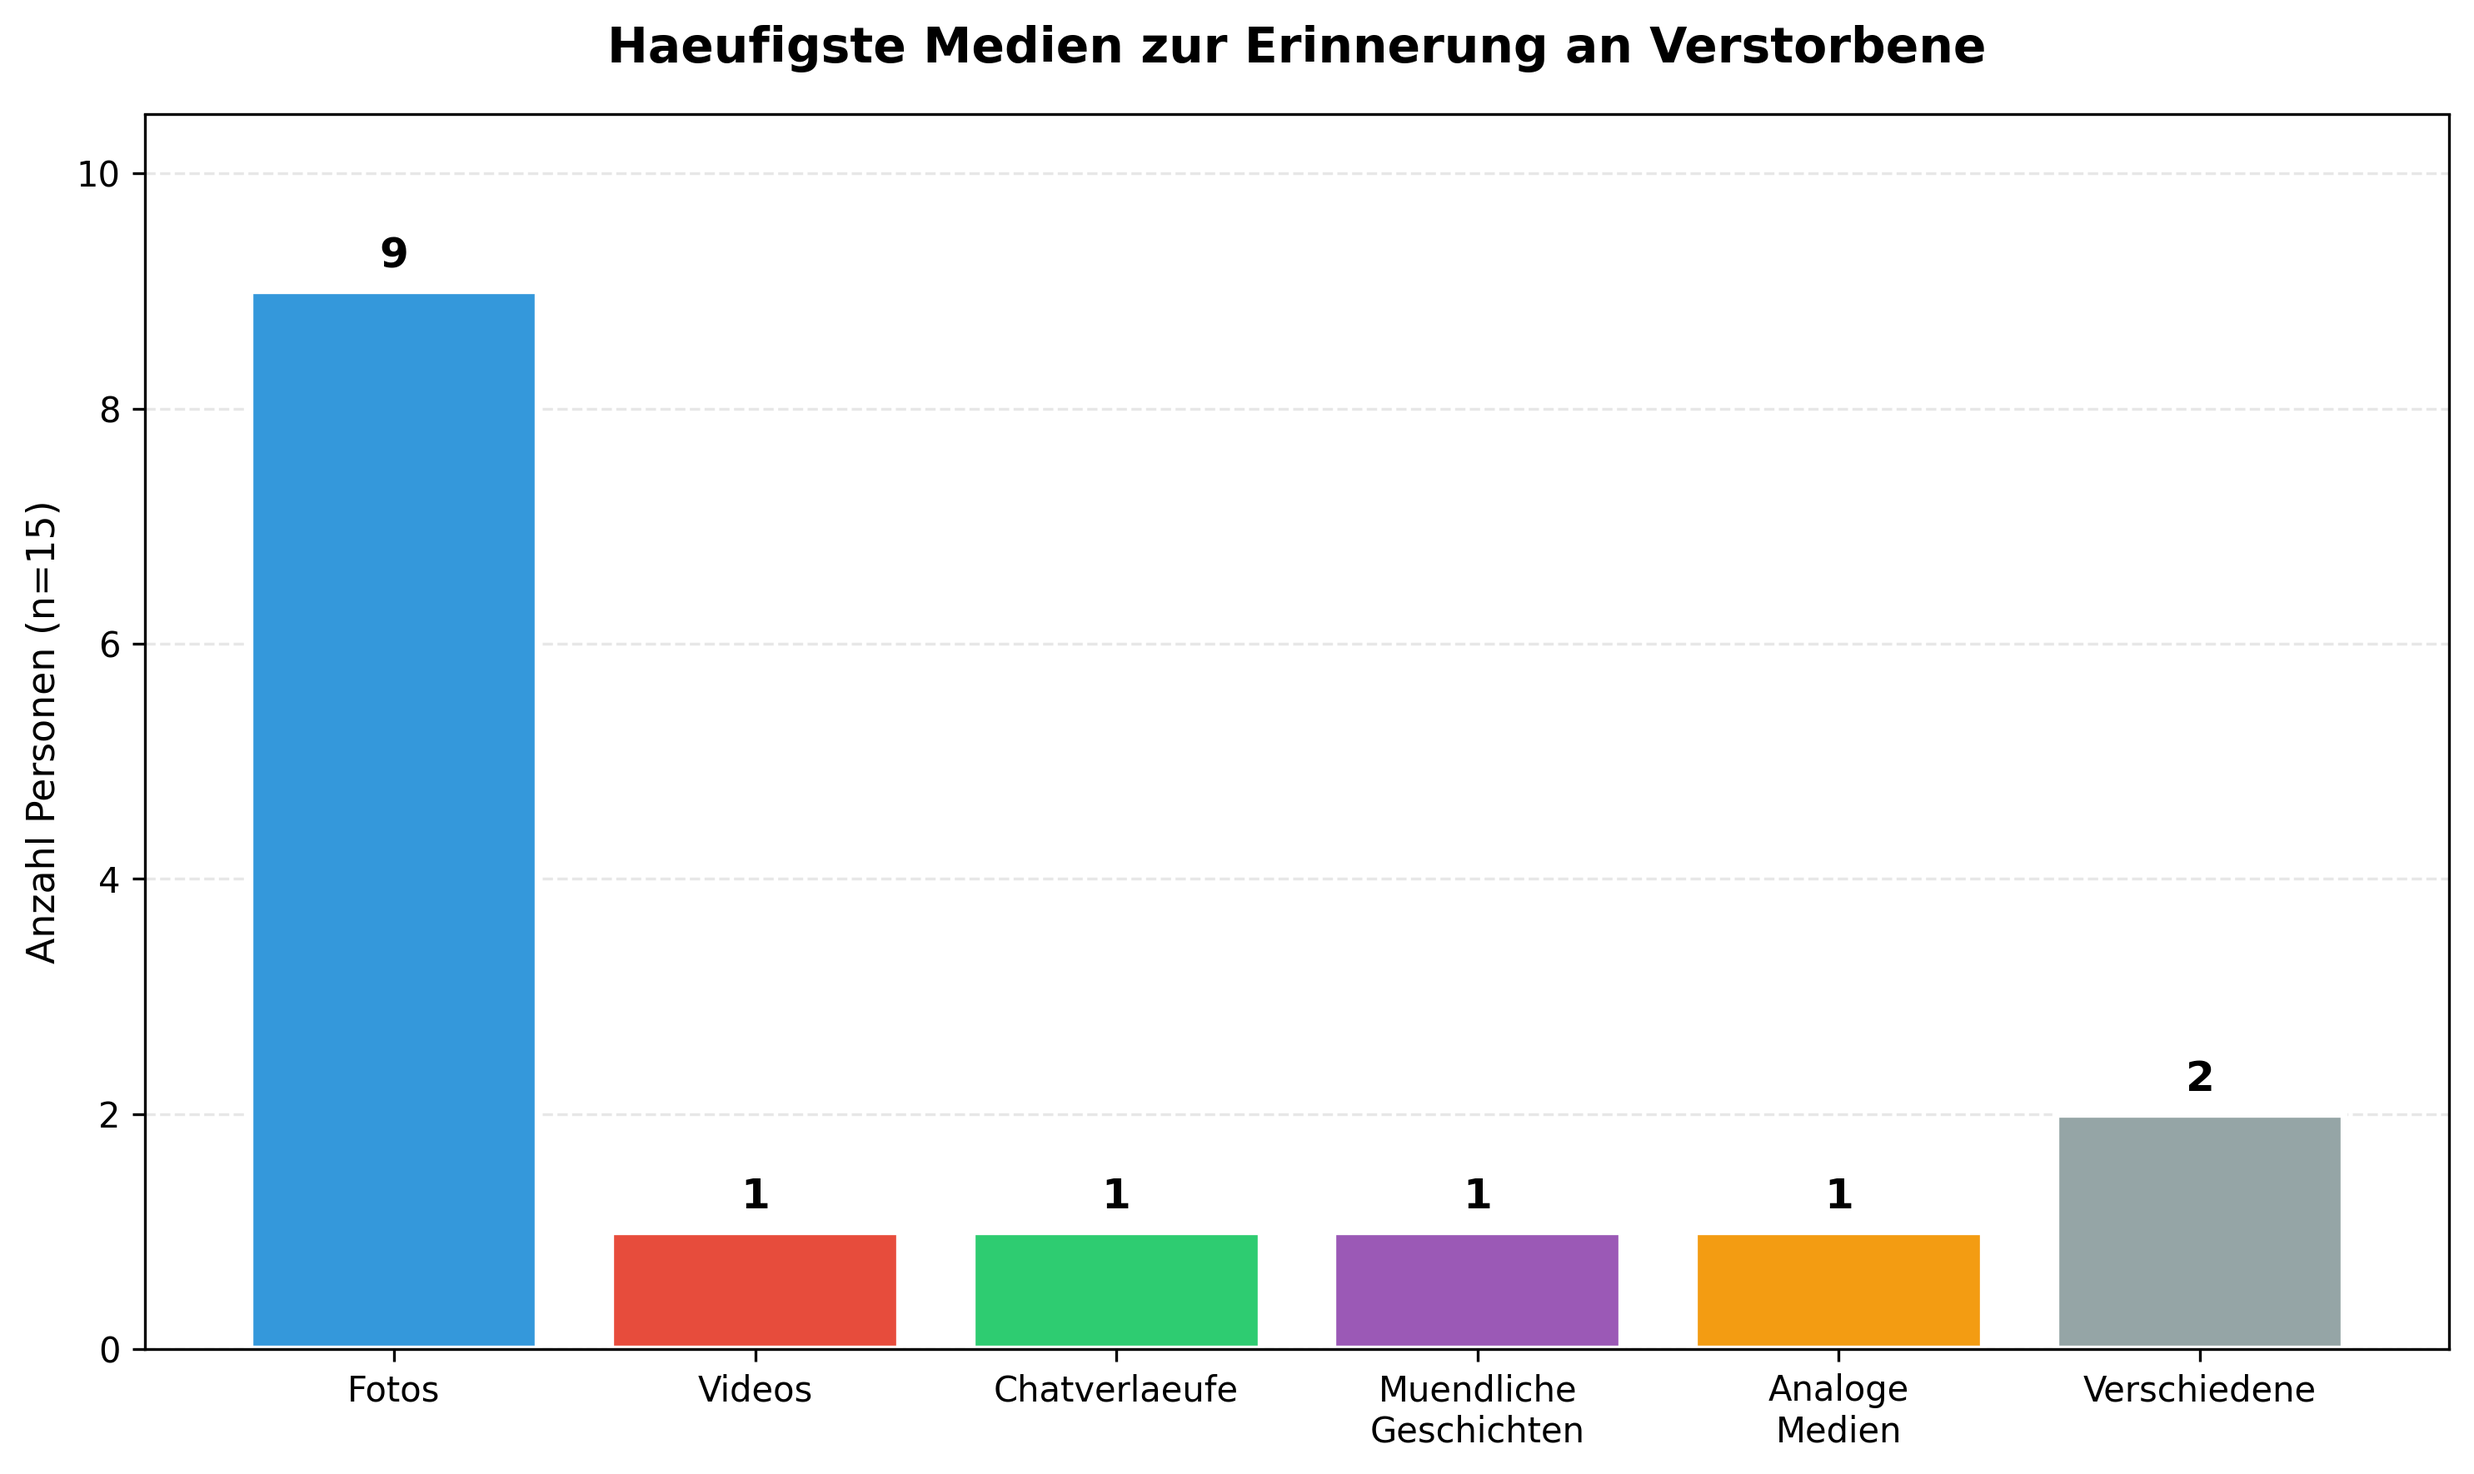
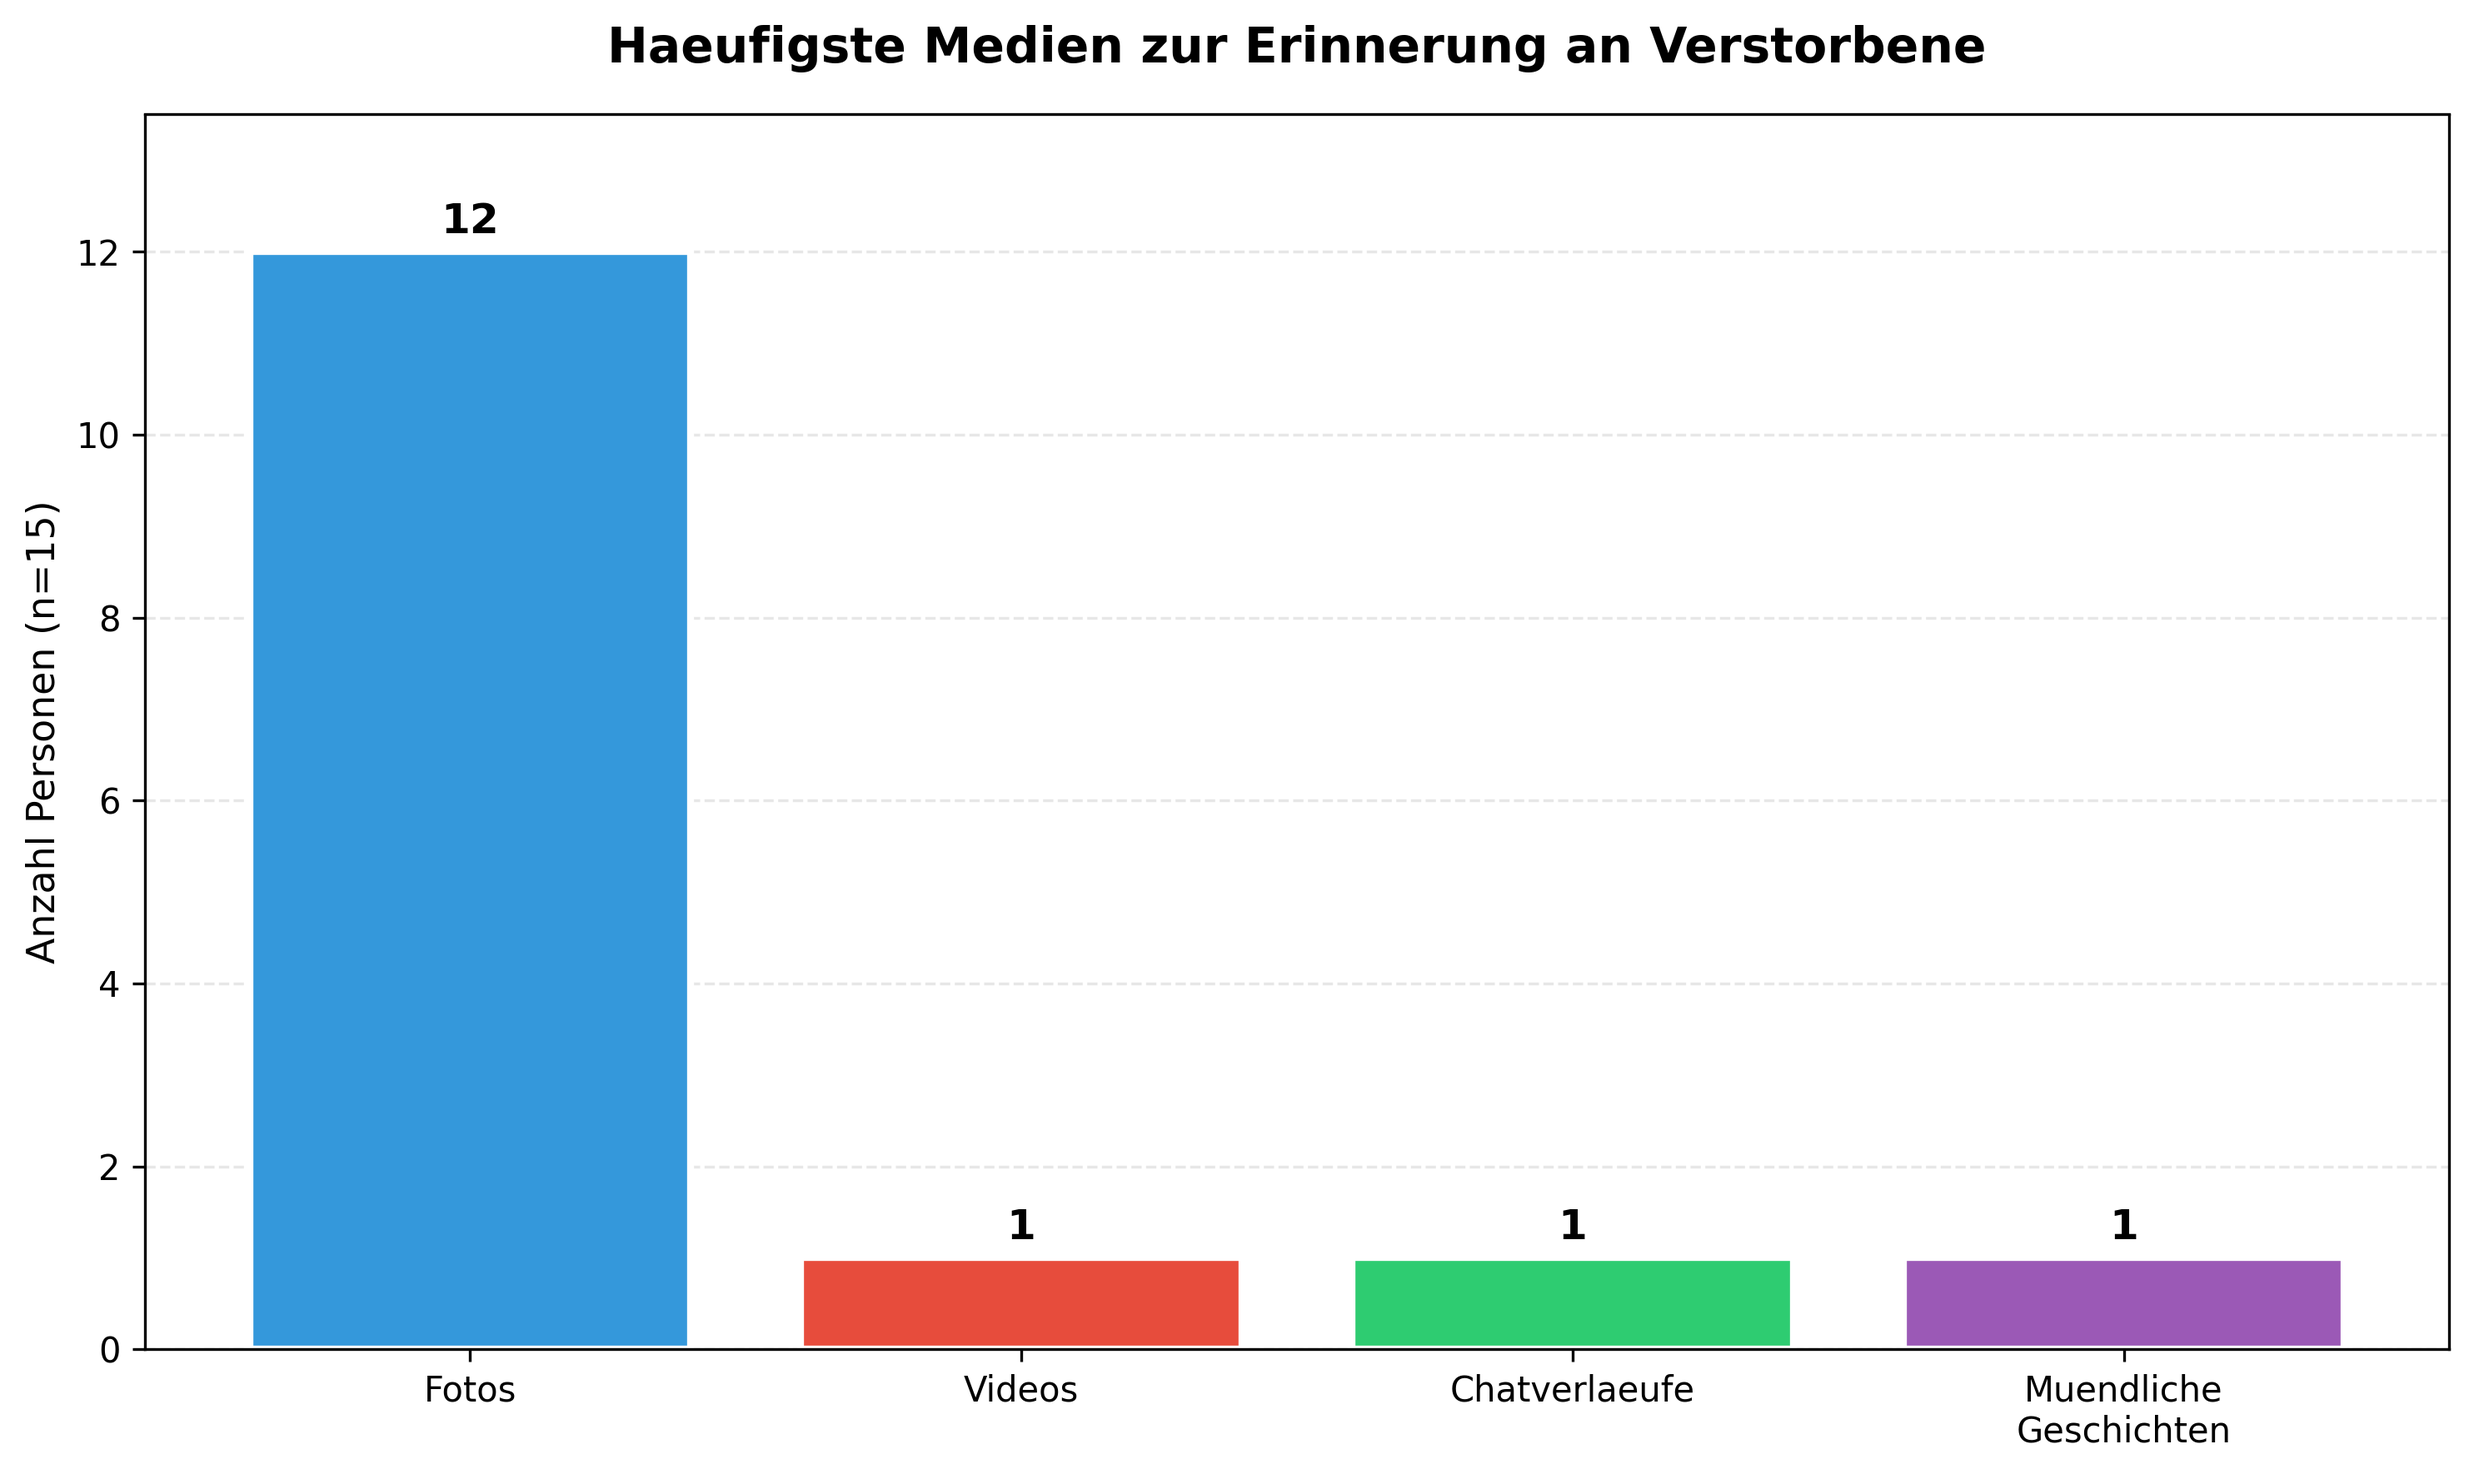
Korrekturen basierend auf Datenverifizierung
- Chart 01: "Verschiedene" Kategorie entfernt, Fotos korrigiert auf 12/15
- Themen-Matrix: I12 (Abbas) bei "plötzlichem Tod Abschied" hinzugefügt
- I12_Abbas/analyse.md: Punkt "Abschied bei plötzlichem Tod" ergänzt
- Beide Korrekturen durch MAXQDA-Segmente verifiziert

🤖 Generated with [Claude Code](https://claude.com/claude-code)

diff --git a/code/create_latex_style_table.py b/code/create_latex_style_table.py
@@ -34,7 +34,7 @@ themes_data = [
             ('KI kann emotionale Nähe nicht ersetzen', 'I01, I05, I06, I07, I08, I11, I13'),
             ('Echte Aufnahmen werden künstlichen vorgezogen', 'I01, I05, I06, I11, I13, I14'),
             ('Stimme/Bewegung erzeugt stärkere Präsenz als statische Bilder', 'I01, I03, I04, I05, I08, I09, I10, I11, I15'),
-            ('KI könnte bei plötzlichem Tod Abschied ermöglichen', 'I04'),
+            ('KI könnte bei plötzlichem Tod Abschied ermöglichen', 'I04, I12'),
         ]
     },
     {
@@ -191,7 +191,7 @@ markdown_content = """# Themen-Matrix: Einflussfaktoren auf die Einstellung zu K
 | *Emotionale Bindung und Präsenzgefühl (FF B)* | KI kann emotionale Nähe nicht ersetzen | I01, I05, I06, I07, I08, I11, I13 |
 | | Echte Aufnahmen werden künstlichen vorgezogen | I01, I05, I06, I11, I13, I14 |
 | | Stimme/Bewegung erzeugt stärkere Präsenz als statische Bilder | I01, I03, I04, I05, I08, I09, I10, I11, I15 |
-| | KI könnte bei plötzlichem Tod Abschied ermöglichen | I04 |
+| | KI könnte bei plötzlichem Tod Abschied ermöglichen | I04, I12 |
 | *Trauerprozess und Bewältigung (FF B)* | KI könnte Loslassen/Abschliessen verhindern | I01, I02, I03, I05, I06, I07, I08, I09, I12, I13, I14, I15 |
 | | Zeitlicher Abstand vor KI-Nutzung wichtig | I05, I06, I07 |
 | | Zeitliche Begrenzung der Nutzung sinnvoll | I03, I15 |

diff --git a/code/create_final_charts.py b/code/create_final_charts.py
@@ -25,13 +25,16 @@ print("="*60)
 fig, ax = plt.subplots(figsize=(10, 6))
 
 medien_data = {
-    'Fotos': 9,
+    'Fotos': 12,
     'Videos': 1,
     'Chatverlaeufe': 1,
-    'Muendliche\nGeschichten': 1,
-    'Analoge\nMedien': 1,
-    'Verschiedene': 2
+    'Muendliche\nGeschichten': 1
 }
+# Fotos: I01, I02, I04, I05, I07, I08, I09, I10, I11, I13, I14, I15 = 12
+# Videos: I03 = 1
+# Chatverlaeufe: I06 = 1
+# Muendliche Geschichten: I12 (Abbas) = 1
+# Hinweis: I13 nutzt analoge Medien (Portrait), zaehlt hier als Fotos
 
 labels = list(medien_data.keys())
 values = list(medien_data.values())

diff --git a/interviews/I12_Abbas/analyse.md b/interviews/I12_Abbas/analyse.md
@@ -101,6 +101,12 @@ Trotz grundsätzlicher Skepsis erkennt Abbas **einige potenzielle Vorteile**:
    - "Der kann die eigene Geschichte erzählen" - im Gegensatz zu einem Foto, das stumm bleibt
    - Löst das Problem, dass "im Minimum jemand noch die Geschichte erzählen" muss
 
+4. **Abschied bei plötzlichem Tod** (wichtiger Punkt):
+   - "Doch Vorteile gibt es. Jetzt sagen wir mal, man hat mit einer Person nicht abgeschlossen"
+   - Bei plötzlichen Todesfällen oder ungelösten Konflikten könnte KI eine Möglichkeit zum "kleinen Abschluss" bieten
+   - Man könne sich verabschieden oder entschuldigen, was mental helfen könne
+   - Ein letztes "Ich liebe dich" sagen, auch wenn die Reaktion nicht 100% authentisch ist
+
 **ABER**: Abbas stellt die Frage "Ob das etwas Gutes ist, sei dahingestellt" - er erkennt die Funktionalität, zweifelt aber am Wert.
 
 ### Würde KI nutzen?

diff --git a/output_charts/09_Themen_Matrix_Tabelle.md b/output_charts/09_Themen_Matrix_Tabelle.md
@@ -14,7 +14,7 @@
 | *Emotionale Bindung und Präsenzgefühl (FF B)* | KI kann emotionale Nähe nicht ersetzen | I01, I05, I06, I07, I08, I11, I13 |
 | | Echte Aufnahmen werden künstlichen vorgezogen | I01, I05, I06, I11, I13, I14 |
 | | Stimme/Bewegung erzeugt stärkere Präsenz als statische Bilder | I01, I03, I04, I05, I08, I09, I10, I11, I15 |
-| | KI könnte bei plötzlichem Tod Abschied ermöglichen | I04 |
+| | KI könnte bei plötzlichem Tod Abschied ermöglichen | I04, I12 |
 | *Trauerprozess und Bewältigung (FF B)* | KI könnte Loslassen/Abschliessen verhindern | I01, I02, I03, I05, I06, I07, I08, I09, I12, I13, I14, I15 |
 | | Zeitlicher Abstand vor KI-Nutzung wichtig | I05, I06, I07 |
 | | Zeitliche Begrenzung der Nutzung sinnvoll | I03, I15 |
